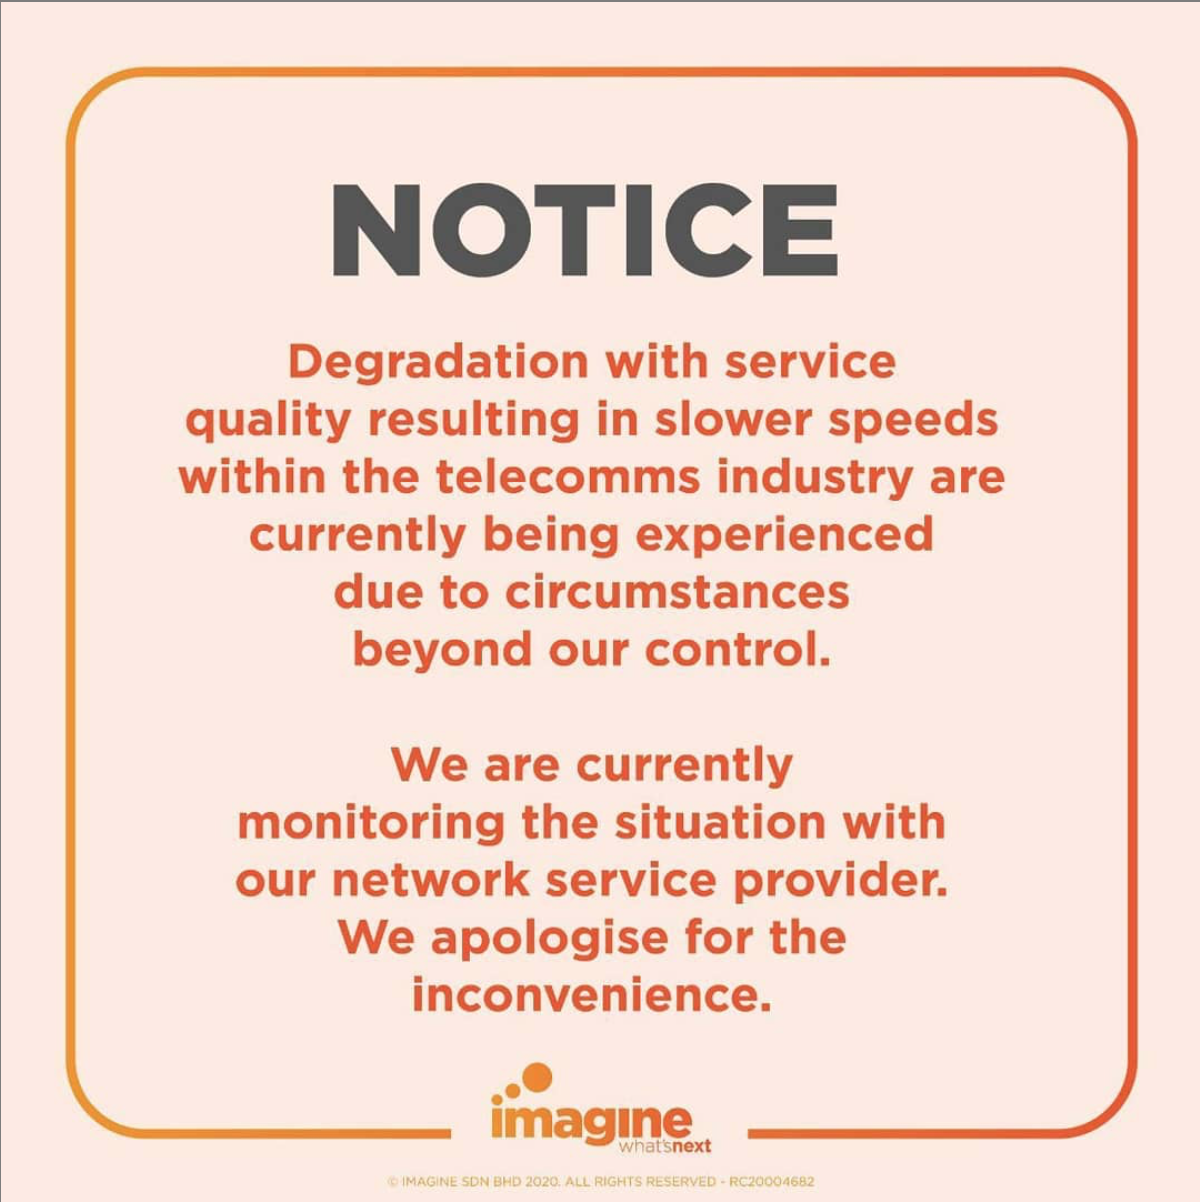
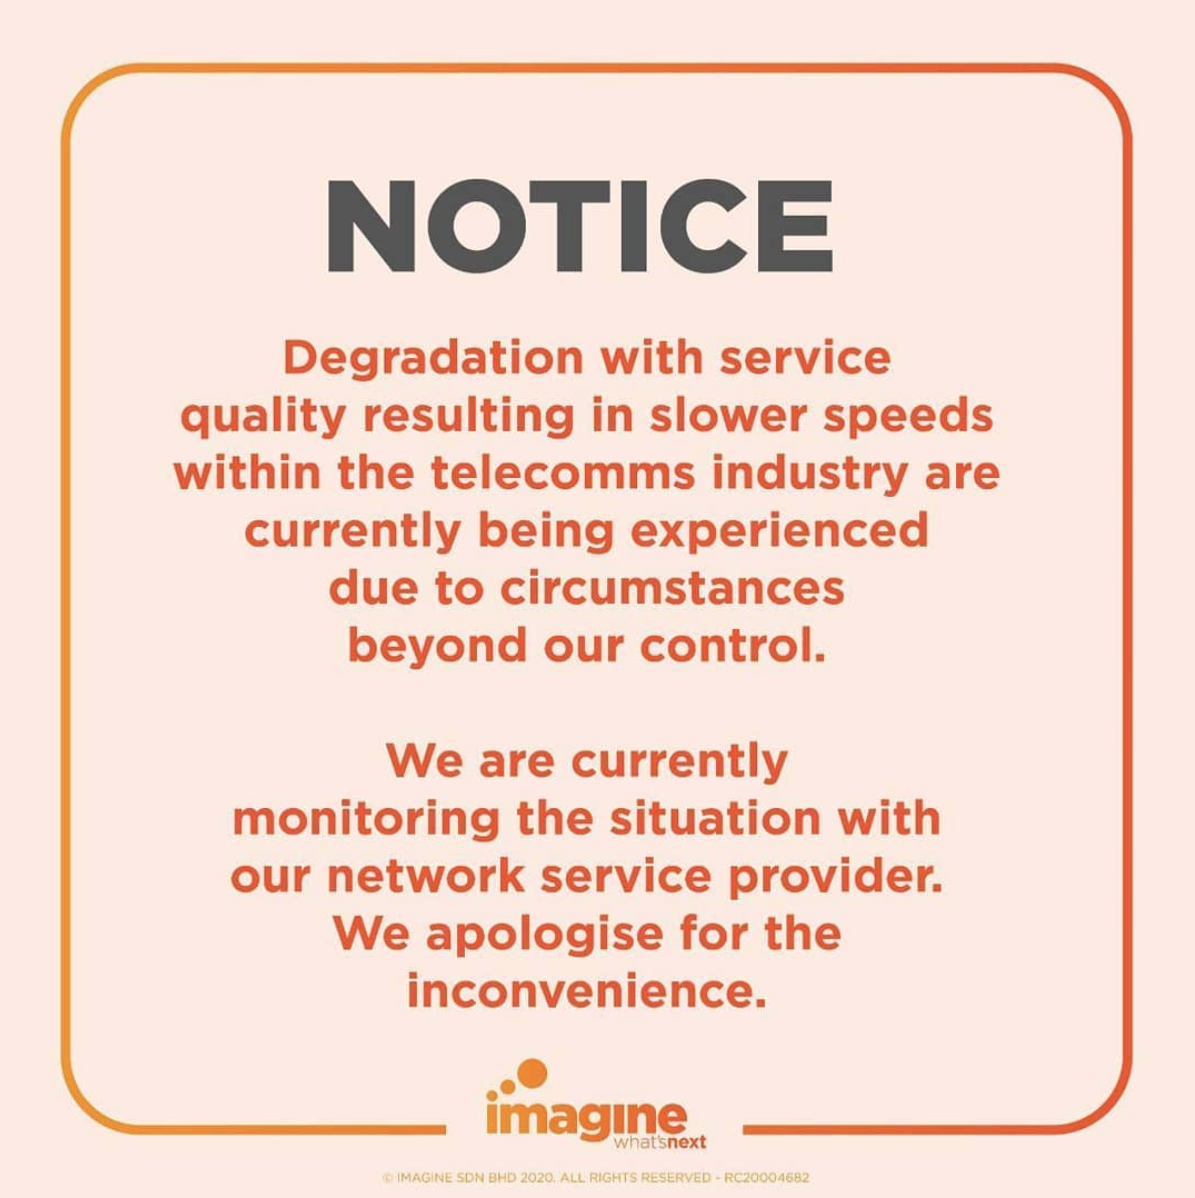
Update

diff --git a/README.md b/README.md
@@ -11,6 +11,8 @@ UBD 2019S1 batch (Statistics group).
 
 ![](imagine.png)
 
+<blockquote class="instagram-media" data-instgrm-captioned data-instgrm-permalink="https://www.instagram.com/p/B_Fn7bLgJ-f/?utm_source=ig_embed&amp;utm_campaign=loading" data-instgrm-version="12" style=" background:#FFF; border:0; border-radius:3px; box-shadow:0 0 1px 0 rgba(0,0,0,0.5),0 1px 10px 0 rgba(0,0,0,0.15); margin: 1px; max-width:540px; min-width:326px; padding:0; width:99.375%; width:-webkit-calc(100% - 2px); width:calc(100% - 2px);"><div style="padding:16px;"> <a href="https://www.instagram.com/p/B_Fn7bLgJ-f/?utm_source=ig_embed&amp;utm_campaign=loading" style=" background:#FFFFFF; line-height:0; padding:0 0; text-align:center; text-decoration:none; width:100%;" target="_blank"> <div style=" display: flex; flex-direction: row; align-items: center;"> <div style="background-color: #F4F4F4; border-radius: 50%; flex-grow: 0; height: 40px; margin-right: 14px; width: 40px;"></div> <div style="display: flex; flex-direction: column; flex-grow: 1; justify-content: center;"> <div style=" background-color: #F4F4F4; border-radius: 4px; flex-grow: 0; height: 14px; margin-bottom: 6px; width: 100px;"></div> <div style=" background-color: #F4F4F4; border-radius: 4px; flex-grow: 0; height: 14px; width: 60px;"></div></div></div><div style="padding: 19% 0;"></div> <div style="display:block; height:50px; margin:0 auto 12px; width:50px;"><svg width="50px" height="50px" viewBox="0 0 60 60" version="1.1" xmlns="https://www.w3.org/2000/svg" xmlns:xlink="https://www.w3.org/1999/xlink"><g stroke="none" stroke-width="1" fill="none" fill-rule="evenodd"><g transform="translate(-511.000000, -20.000000)" fill="#000000"><g><path d="M556.869,30.41 C554.814,30.41 553.148,32.076 553.148,34.131 C553.148,36.186 554.814,37.852 556.869,37.852 C558.924,37.852 560.59,36.186 560.59,34.131 C560.59,32.076 558.924,30.41 556.869,30.41 M541,60.657 C535.114,60.657 530.342,55.887 530.342,50 C530.342,44.114 535.114,39.342 541,39.342 C546.887,39.342 551.658,44.114 551.658,50 C551.658,55.887 546.887,60.657 541,60.657 M541,33.886 C532.1,33.886 524.886,41.1 524.886,50 C524.886,58.899 532.1,66.113 541,66.113 C549.9,66.113 557.115,58.899 557.115,50 C557.115,41.1 549.9,33.886 541,33.886 M565.378,62.101 C565.244,65.022 564.756,66.606 564.346,67.663 C563.803,69.06 563.154,70.057 562.106,71.106 C561.058,72.155 560.06,72.803 558.662,73.347 C557.607,73.757 556.021,74.244 553.102,74.378 C549.944,74.521 548.997,74.552 541,74.552 C533.003,74.552 532.056,74.521 528.898,74.378 C525.979,74.244 524.393,73.757 523.338,73.347 C521.94,72.803 520.942,72.155 519.894,71.106 C518.846,70.057 518.197,69.06 517.654,67.663 C517.244,66.606 516.755,65.022 516.623,62.101 C516.479,58.943 516.448,57.996 516.448,50 C516.448,42.003 516.479,41.056 516.623,37.899 C516.755,34.978 517.244,33.391 517.654,32.338 C518.197,30.938 518.846,29.942 519.894,28.894 C520.942,27.846 521.94,27.196 523.338,26.654 C524.393,26.244 525.979,25.756 528.898,25.623 C532.057,25.479 533.004,25.448 541,25.448 C548.997,25.448 549.943,25.479 553.102,25.623 C556.021,25.756 557.607,26.244 558.662,26.654 C560.06,27.196 561.058,27.846 562.106,28.894 C563.154,29.942 563.803,30.938 564.346,32.338 C564.756,33.391 565.244,34.978 565.378,37.899 C565.522,41.056 565.552,42.003 565.552,50 C565.552,57.996 565.522,58.943 565.378,62.101 M570.82,37.631 C570.674,34.438 570.167,32.258 569.425,30.349 C568.659,28.377 567.633,26.702 565.965,25.035 C564.297,23.368 562.623,22.342 560.652,21.575 C558.743,20.834 556.562,20.326 553.369,20.18 C550.169,20.033 549.148,20 541,20 C532.853,20 531.831,20.033 528.631,20.18 C525.438,20.326 523.257,20.834 521.349,21.575 C519.376,22.342 517.703,23.368 516.035,25.035 C514.368,26.702 513.342,28.377 512.574,30.349 C511.834,32.258 511.326,34.438 511.181,37.631 C511.035,40.831 511,41.851 511,50 C511,58.147 511.035,59.17 511.181,62.369 C511.326,65.562 511.834,67.743 512.574,69.651 C513.342,71.625 514.368,73.296 516.035,74.965 C517.703,76.634 519.376,77.658 521.349,78.425 C523.257,79.167 525.438,79.673 528.631,79.82 C531.831,79.965 532.853,80.001 541,80.001 C549.148,80.001 550.169,79.965 553.369,79.82 C556.562,79.673 558.743,79.167 560.652,78.425 C562.623,77.658 564.297,76.634 565.965,74.965 C567.633,73.296 568.659,71.625 569.425,69.651 C570.167,67.743 570.674,65.562 570.82,62.369 C570.966,59.17 571,58.147 571,50 C571,41.851 570.966,40.831 570.82,37.631"></path></g></g></g></svg></div><div style="padding-top: 8px;"> <div style=" color:#3897f0; font-family:Arial,sans-serif; font-size:14px; font-style:normal; font-weight:550; line-height:18px;"> View this post on Instagram</div></div><div style="padding: 12.5% 0;"></div> <div style="display: flex; flex-direction: row; margin-bottom: 14px; align-items: center;"><div> <div style="background-color: #F4F4F4; border-radius: 50%; height: 12.5px; width: 12.5px; transform: translateX(0px) translateY(7px);"></div> <div style="background-color: #F4F4F4; height: 12.5px; transform: rotate(-45deg) translateX(3px) translateY(1px); width: 12.5px; flex-grow: 0; margin-right: 14px; margin-left: 2px;"></div> <div style="background-color: #F4F4F4; border-radius: 50%; height: 12.5px; width: 12.5px; transform: translateX(9px) translateY(-18px);"></div></div><div style="margin-left: 8px;"> <div style=" background-color: #F4F4F4; border-radius: 50%; flex-grow: 0; height: 20px; width: 20px;"></div> <div style=" width: 0; height: 0; border-top: 2px solid transparent; border-left: 6px solid #f4f4f4; border-bottom: 2px solid transparent; transform: translateX(16px) translateY(-4px) rotate(30deg)"></div></div><div style="margin-left: auto;"> <div style=" width: 0px; border-top: 8px solid #F4F4F4; border-right: 8px solid transparent; transform: translateY(16px);"></div> <div style=" background-color: #F4F4F4; flex-grow: 0; height: 12px; width: 16px; transform: translateY(-4px);"></div> <div style=" width: 0; height: 0; border-top: 8px solid #F4F4F4; border-left: 8px solid transparent; transform: translateY(-4px) translateX(8px);"></div></div></div></a> <p style=" margin:8px 0 0 0; padding:0 4px;"> <a href="https://www.instagram.com/p/B_Fn7bLgJ-f/?utm_source=ig_embed&amp;utm_campaign=loading" style=" color:#000; font-family:Arial,sans-serif; font-size:14px; font-style:normal; font-weight:normal; line-height:17px; text-decoration:none; word-wrap:break-word;" target="_blank">Good evening, everyone.    Kindly take note that slower speeds are currently occurring among the telecomms industry due to circumstances beyond our control. We are monitoring the situation.    We apologise for the inconvenience.    #imaginebn #imaginewhatsnextbn</a></p> <p style=" color:#c9c8cd; font-family:Arial,sans-serif; font-size:14px; line-height:17px; margin-bottom:0; margin-top:8px; overflow:hidden; padding:8px 0 7px; text-align:center; text-overflow:ellipsis; white-space:nowrap;">A post shared by <a href="https://www.instagram.com/_imaginebn/?utm_source=ig_embed&amp;utm_campaign=loading" style=" color:#c9c8cd; font-family:Arial,sans-serif; font-size:14px; font-style:normal; font-weight:normal; line-height:17px;" target="_blank"> imagine what’s next</a> (@_imaginebn) on <time style=" font-family:Arial,sans-serif; font-size:14px; line-height:17px;" datetime="2020-04-17T15:59:11+00:00">Apr 17, 2020 at 8:59am PDT</time></p></div></blockquote> <script async src="//www.instagram.com/embed.js"></script>
+
 *18/4/2020* Imagine (TelBru) customers are experiencing degradation in service quality. Hopefully this goes away by Monday. My tests just now show that Zoom meetings, albeit slow to connect at first, runs fine. To be safe, I will turn on 'cloud recording' so we can recap the talks at a later time if necessary.
 
 
